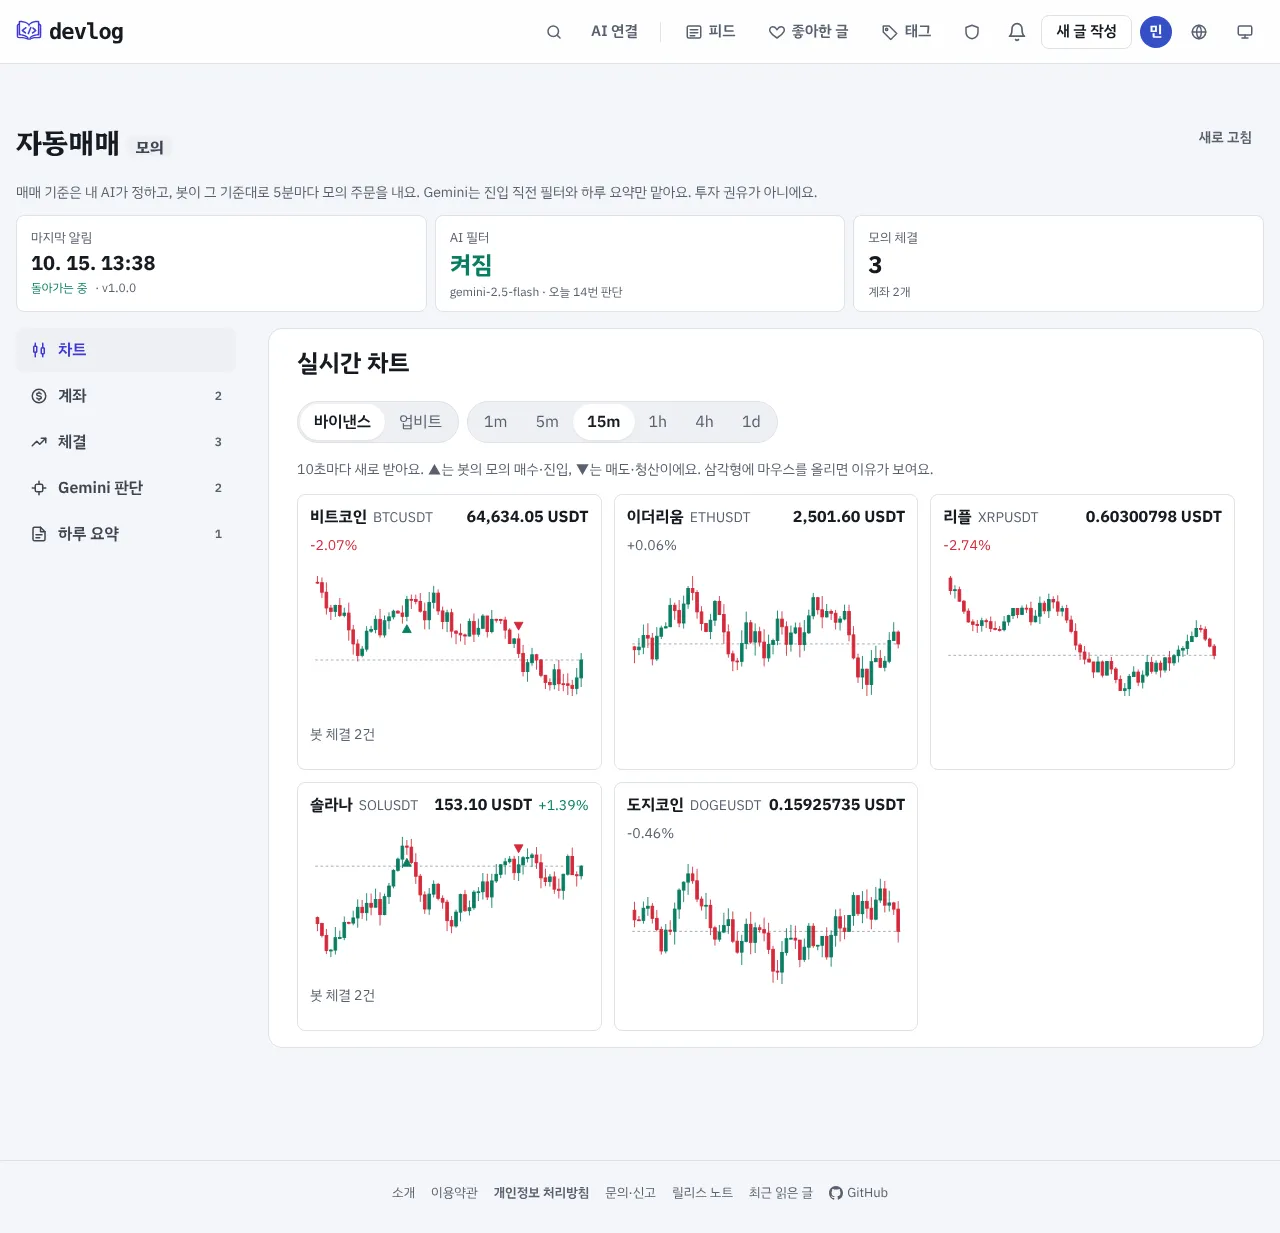
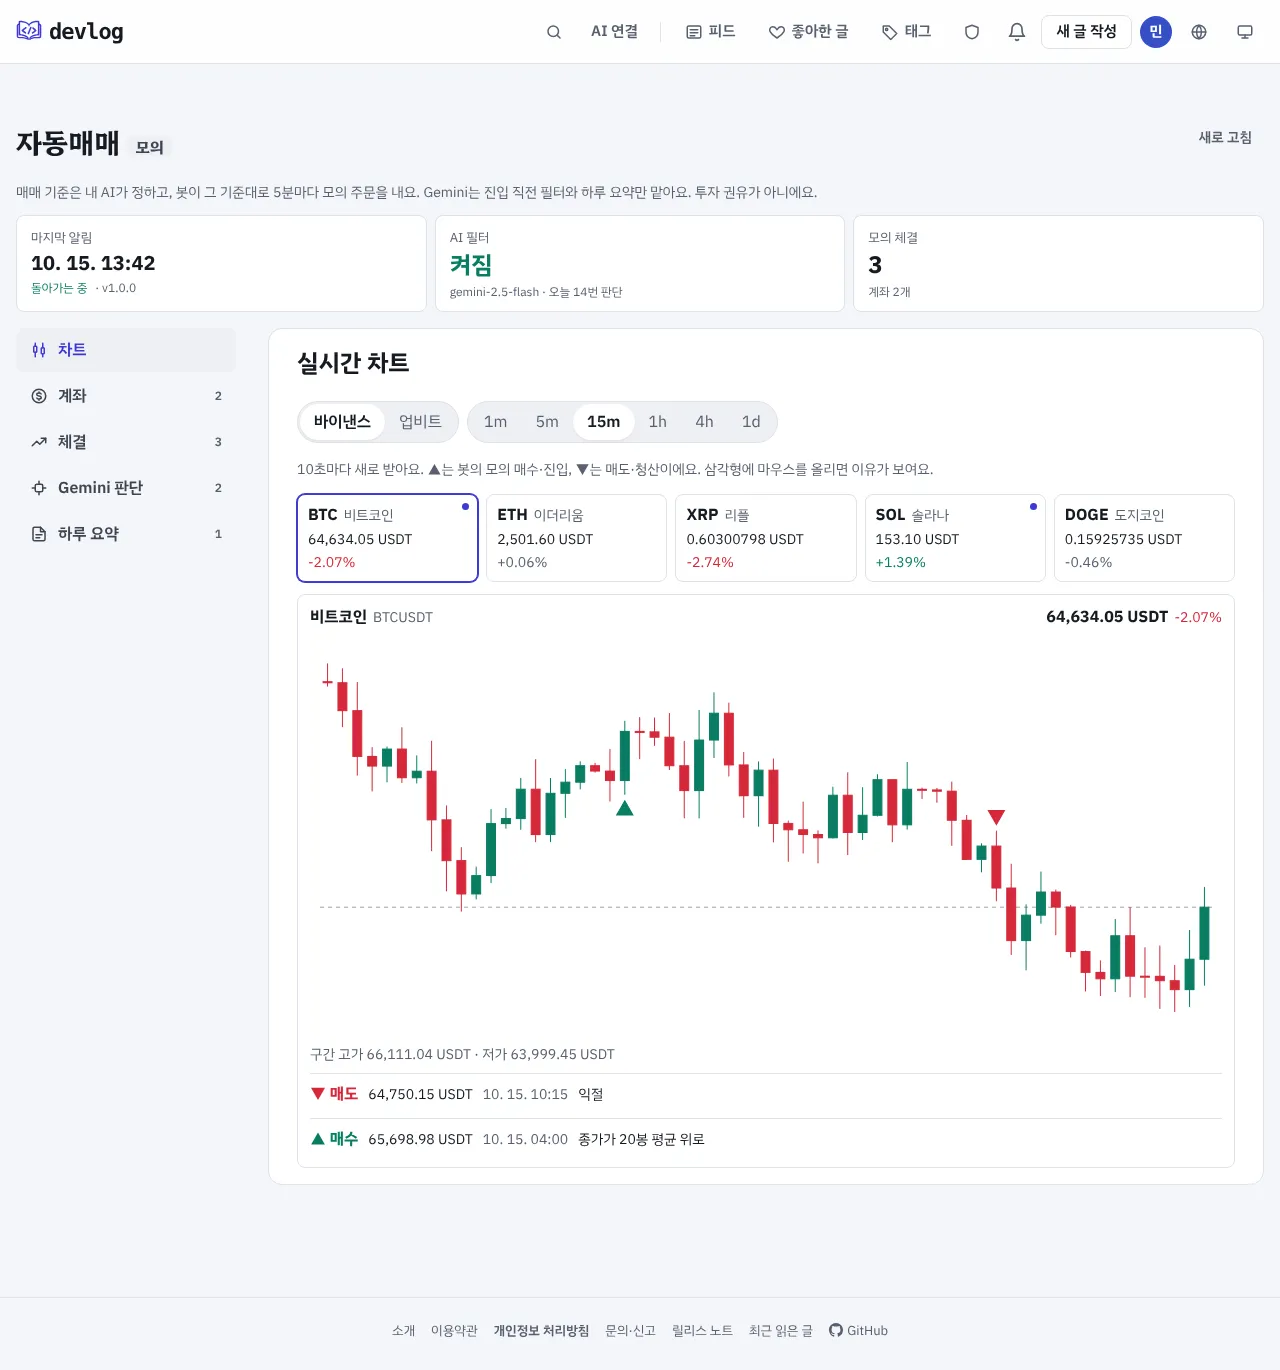
feat(trade): 차트 탭에서 종목을 골라 크게 보기 (PC 넓게, 휴대폰 화면 폭) + 봇 체결 목록 (민서님 요청)
Claude-Session: https://claude.ai/code/session_01EHjZN3D8Kby2KwiMkxejmq

diff --git a/app/frontend/src/components/TradeBotCharts.tsx b/app/frontend/src/components/TradeBotCharts.tsx
@@ -8,17 +8,35 @@ import { money, pnlClass } from '../lib/trades'
 
 /** 서버가 캔들을 10초씩 들고 있으니 화면도 10초마다 다시 받는다 */
 const REFRESH_MS = 10_000
-const W = 320
-const H = 170
-const PAD = 6
+/** 고른 종목 하나를 크게 그린다. PC에서는 넓게, 휴대폰에서는 화면 폭에 맞춰 같은 비율로 줄어든다 */
+const PC = { w: 900, h: 400 }
+/** 휴대폰은 폭이 좁아 같은 비율이면 납작해지므로 세로를 늘린 비율로 그린다(봉·삼각형 크기는 그대로) */
+const MOBILE = { w: 420, h: 300 }
+const PAD = 10
+
+/** 휴대폰 폭인가. 화면을 돌리거나 창 크기를 바꾸면 따라 바뀐다 */
+function useNarrow(): boolean {
+  const query = '(max-width: 767px)'
+  const [narrow, setNarrow] = useState(() => typeof window !== 'undefined' && !!window.matchMedia?.(query).matches)
+  useEffect(() => {
+    const m = window.matchMedia?.(query)
+    if (!m) return
+    const on = () => setNarrow(m.matches)
+    m.addEventListener('change', on)
+    return () => m.removeEventListener('change', on)
+  }, [])
+  return narrow
+}
 
 /**
- * 자동매매 화면의 차트 탭 (spec 101). 코인 5종을 고른 거래소의 실시간(10초마다) 캔들로 그리고,
- * 봇이 알린 모의 체결을 봉 위(매도·청산)·아래(매수·진입)에 삼각형으로 찍는다. 삼각형에 마우스를 올리면 체결 내용이 보인다.
+ * 자동매매 화면의 차트 탭 (spec 101). 코인 5종 가운데 고른 종목을 고른 거래소의 실시간(10초마다) 캔들로 크게 그리고,
+ * 봇이 알린 모의 체결을 봉 위(매도·청산)·아래(매수·진입)에 삼각형으로 찍는다. 삼각형에 마우스를 올리면 체결 내용이 보이고,
+ * 휴대폰처럼 마우스가 없을 때를 위해 차트 아래에 같은 체결을 목록으로 둔다.
  */
 export function TradeBotCharts() {
   const [exchange, setExchange] = useState<ChartExchange>('binance')
   const [interval, setTimeframe] = useState<ChartInterval>('15m')
+  const [picked, setPicked] = useState('BTC')
   const [data, setData] = useState<CoinChart | null>(null)
   const [error, setError] = useState(false)
   const key = useRef('')
@@ -58,9 +76,24 @@ export function TradeBotCharts() {
       {error && <p className="error small" role="alert">{t('차트를 불러오지 못했어요. 10초 뒤 다시 받아요.')}</p>}
       {!shown && !error && <p className="muted center">{t('불러오는 중…')}</p>}
       {shown && (
-        <div className="tradebot-charts">
-          {shown.coins.map((c) => <CoinCard key={c.coin} coin={c} currency={shown.currency} />)}
-        </div>
+        <>
+          <div className="tradebot-coins" role="tablist" aria-label={t('종목')}>
+            {shown.coins.map((c) => {
+              const last = c.candles.at(-1)
+              const rate = changeRate(c.candles)
+              return (
+                <button key={c.coin} type="button" role="tab" aria-selected={c.coin === picked} className={`tradebot-coin${c.coin === picked ? ' active' : ''}`}
+                  onClick={() => setPicked(c.coin)} data-tip={t('{0} 차트를 크게 봐요', { 0: t(c.name) })}>
+                  <span className="tradebot-coin-name"><strong>{c.coin}</strong><span className="muted small">{t(c.name)}</span></span>
+                  {last && <span className="tradebot-coin-price small">{money(last.c, shown.currency)}</span>}
+                  {rate !== null && <span className={`pnl small ${pnlClass(rate)}`}>{rate > 0 ? '+' : ''}{rate.toFixed(2)}%</span>}
+                  {c.marks.length > 0 && <span className="tradebot-coin-dot" aria-label={t('봇 체결 {0}건', { 0: c.marks.length })} />}
+                </button>
+              )
+            })}
+          </div>
+          {shown.coins.filter((c) => c.coin === picked).map((c) => <CoinCard key={c.coin} coin={c} currency={shown.currency} />)}
+        </>
       )}
     </section>
   )
@@ -78,20 +111,37 @@ function CoinCard({ coin, currency }: { coin: ChartCoin; currency: string }) {
         {rate !== null && <span className={`pnl small ${pnlClass(rate)}`}>{rate > 0 ? '+' : ''}{rate.toFixed(2)}%</span>}
       </header>
       {coin.error ? <p className="muted small">{t('시세를 받지 못했어요. 잠시 뒤 다시 받아요.')}</p> : <CandleSvg coin={coin} currency={currency} />}
-      {coin.marks.length > 0 && <p className="muted small">{t('봇 체결 {0}건', { 0: coin.marks.length })}</p>}
+      {coin.candles.length > 0 && (
+        <p className="muted small tradebot-range">
+          {t('구간 고가 {0} · 저가 {1}', { 0: money(Math.max(...coin.candles.map((x) => x.h)), currency), 1: money(Math.min(...coin.candles.map((x) => x.l)), currency) })}
+        </p>
+      )}
+      {coin.marks.length === 0 ? <p className="muted small">{t('이 구간에는 봇 체결이 없어요.')}</p> : (
+        <ul className="tradebot-marks">
+          {[...coin.marks].reverse().map((m, i) => (
+            <li key={i}>
+              <span className={sideUp(m.side) ? 'trades-buy' : 'trades-sell'}>{sideUp(m.side) ? '▲' : '▼'} <strong>{sideLabel(m.side)}</strong></span>
+              <span className="small">{money(m.price, currency)}</span>
+              <span className="muted small">{eventTime(new Date(m.t).toISOString())}</span>
+              {m.text && <span className="small tradebot-text">{m.text}</span>}
+            </li>
+          ))}
+        </ul>
+      )}
     </article>
   )
 }
 
 function CandleSvg({ coin, currency }: { coin: ChartCoin; currency: string }) {
+  const { w: W, h: H } = useNarrow() ? MOBILE : PC
   const cs = coin.candles
   if (cs.length === 0) return <p className="muted small">{t('아직 봉이 없어요.')}</p>
   const marks = coin.marks.map((m) => ({ m, i: markIndex(cs, m.t) })).filter((x): x is { m: typeof x.m; i: number } => x.i !== null)
   let lo = Math.min(...cs.map((c) => c.l), ...marks.map((x) => x.m.price))
   let hi = Math.max(...cs.map((c) => c.h), ...marks.map((x) => x.m.price))
   if (hi === lo) { hi += 1; lo -= 1 }
-  const top = PAD + 10
-  const bottom = H - PAD - 10
+  const top = PAD + 18
+  const bottom = H - PAD - 18
   const y = (v: number) => top + ((hi - v) / (hi - lo)) * (bottom - top)
   const step = (W - PAD * 2) / cs.length
   const x = (i: number) => PAD + step * i + step / 2
@@ -113,8 +163,8 @@ function CandleSvg({ coin, currency }: { coin: ChartCoin; currency: string }) {
       {marks.map(({ m, i }, k) => {
         const buy = sideUp(m.side)
         const cx = x(i)
-        const cy = buy ? Math.min(H - 2, y(cs[i].l) + 9) : Math.max(2, y(cs[i].h) - 9)
-        const d = buy ? `M${cx} ${cy - 5} L${cx - 5} ${cy + 4} L${cx + 5} ${cy + 4}Z` : `M${cx} ${cy + 5} L${cx - 5} ${cy - 4} L${cx + 5} ${cy - 4}Z`
+        const cy = buy ? Math.min(H - 2, y(cs[i].l) + 14) : Math.max(2, y(cs[i].h) - 14)
+        const d = buy ? `M${cx} ${cy - 8} L${cx - 8} ${cy + 6} L${cx + 8} ${cy + 6}Z` : `M${cx} ${cy + 8} L${cx - 8} ${cy - 6} L${cx + 8} ${cy - 6}Z`
         return (
           <path key={k} d={d} className={`tradebot-mark ${buy ? 'up' : 'down'}`}>
             <title>{`${eventTime(new Date(m.t).toISOString())} ${sideLabel(m.side)} @ ${money(m.price, currency)}${m.text ? ` · ${m.text}` : ''}`}</title>

diff --git a/app/frontend/src/styles.css b/app/frontend/src/styles.css
@@ -2539,14 +2539,31 @@ html:is(:lang(ja), :lang(zh)) :is(.post-title, .markdown, .markdown *, .card-tit
 .tradebot-rules dl { margin: 6px 0 0; display: grid; grid-template-columns: repeat(auto-fill, minmax(110px, 1fr)); gap: 6px; }
 .tradebot-rules dd { margin: 0; overflow-wrap: anywhere; }
 .tradebot-chart-toolbar { flex-wrap: wrap; gap: 8px; }
-.tradebot-charts { display: grid; grid-template-columns: repeat(auto-fill, minmax(280px, 1fr)); gap: 12px; margin-top: 8px; }
+.tradebot-coins { display: grid; grid-template-columns: repeat(5, minmax(0, 1fr)); gap: 8px; margin: 8px 0 12px; }
+.tradebot-coin { position: relative; display: flex; flex-direction: column; align-items: flex-start; gap: 2px; padding: 8px 10px; min-height: 40px;
+  border: 1px solid var(--color-border); border-radius: var(--radius); background: var(--color-surface); color: inherit; text-align: left; cursor: pointer; font: inherit; }
+.tradebot-coin:hover { background: var(--color-hover); }
+.tradebot-coin.active { border-color: var(--color-brand); box-shadow: 0 0 0 1px var(--color-brand); }
+.tradebot-coin-name { display: flex; align-items: baseline; gap: 6px; }
+.tradebot-coin-price { font-variant-numeric: tabular-nums; overflow-wrap: anywhere; }
+.tradebot-coin-dot { position: absolute; top: 8px; right: 8px; width: 7px; height: 7px; border-radius: 50%; background: var(--color-brand); }
+.tradebot-range { margin: 4px 0 8px; }
+.tradebot-marks { list-style: none; margin: 0; padding: 0; display: flex; flex-direction: column; gap: 6px; }
+.tradebot-marks li { display: flex; flex-wrap: wrap; align-items: baseline; gap: 2px 10px; padding: 6px 0; border-top: 1px solid var(--color-border); }
+@media (max-width: 767px) {
+  .tradebot-coins { display: flex; overflow-x: auto; scrollbar-width: none; margin: 8px -16px 12px; padding: 0 16px; }
+  .tradebot-coins::-webkit-scrollbar { display: none; }
+  .tradebot-coin { flex: 0 0 auto; min-width: 116px; }
+  .tradebot-tabs .settings-panel .tradebot-chart { margin: 0 -8px; padding: 8px; }
+}
 .tradebot-chart { padding: 10px 12px; border: 1px solid var(--color-border); border-radius: var(--radius); min-width: 0; }
 .tradebot-chart-price { margin-left: auto; font-weight: 700; font-variant-numeric: tabular-nums; }
 .tradebot-candles { display: block; width: 100%; height: auto; margin-top: 6px; }
 .tradebot-candles .up { stroke: var(--color-up); fill: var(--color-up); }
 .tradebot-candles .down { stroke: var(--color-down); fill: var(--color-down); }
 .tradebot-candles line { stroke-width: 1; }
-.tradebot-candles .tradebot-last { stroke: var(--color-text-muted); stroke-dasharray: 3 3; opacity: 0.6; }
+.tradebot-candles .tradebot-last { stroke: var(--color-text-muted); stroke-dasharray: 4 4; opacity: 0.6; }
+.tradebot-candles line { vector-effect: non-scaling-stroke; }
 .tradebot-mark { stroke: var(--color-surface); stroke-width: 1; cursor: help; }
 .tradebot-text { margin: 4px 0 0; overflow-wrap: anywhere; white-space: pre-line; }
 .tradebot-allow { color: var(--color-up); border-color: var(--color-up); }

diff --git a/app/frontend/src/lib/locales/ja.ts b/app/frontend/src/lib/locales/ja.ts
@@ -2022,4 +2022,8 @@ export const ja: Record<string, string> = {
   "리플": "リップル",
   "솔라나": "ソラナ",
   "도지코인": "ドージコイン",
+  "{0} 차트를 크게 봐요": "{0} のチャートを大きく見ます",
+  "구간 고가 {0} · 저가 {1}": "区間高値 {0} · 安値 {1}",
+  "이 구간에는 봇 체결이 없어요.": "この区間にはボットの約定がありません。",
+  "종목": "銘柄",
 }

diff --git a/app/frontend/src/lib/locales/zh.ts b/app/frontend/src/lib/locales/zh.ts
@@ -2022,4 +2022,8 @@ export const zh: Record<string, string> = {
   "리플": "瑞波币",
   "솔라나": "Solana",
   "도지코인": "狗狗币",
+  "{0} 차트를 크게 봐요": "放大查看 {0} 图表",
+  "구간 고가 {0} · 저가 {1}": "区间最高 {0} · 最低 {1}",
+  "이 구간에는 봇 체결이 없어요.": "此区间没有机器人成交。",
+  "종목": "币种",
 }

diff --git a/app/frontend/src/lib/locales/en.ts b/app/frontend/src/lib/locales/en.ts
@@ -2022,4 +2022,8 @@ export const en: Record<string, string> = {
   "리플": "XRP",
   "솔라나": "Solana",
   "도지코인": "Dogecoin",
+  "{0} 차트를 크게 봐요": "View the {0} chart large",
+  "구간 고가 {0} · 저가 {1}": "Range high {0} · low {1}",
+  "이 구간에는 봇 체결이 없어요.": "No bot fills in this range.",
+  "종목": "Coins",
 }

diff --git a/CHANGELOG.md b/CHANGELOG.md
@@ -11,7 +11,7 @@ main에 이 파일의 맨 위 버전이 새로 들어오면 `.github/workflows/r
 ## [Unreleased]
 
 ### 추가
-- 자동매매 모의 화면 `/trade`: 매매 봇이 MCP `report_trade_bot`으로 알린 모의 계좌(현금·보유 포지션·평가 손익·적용 중인 규칙), 최근 체결과 이유, Gemini 진입 판단(허락·막음), 하루 요약을 본인만 본다. 첫 탭은 코인 5종(BTC·ETH·XRP·SOL·DOGE)의 바이낸스 현물·업비트 원화 실시간 차트(1m~1d, 10초마다)이고 봇의 모의 체결을 ▲▼로 찍는다(캔들은 서버가 공개 API에서 받아 10초씩 들고 있어 CSP를 넓히지 않는다, `GET /api/me/trade-bot/charts`). 차트·계좌·체결·Gemini 판단·하루 요약을 왼쪽 탭으로 나누고 휴대폰에서는 탭이 위에서 옆으로 밀린다(`/trade#fills`처럼 바로 열림). 구조는 규칙형(내 AI가 기준, 봇 코드가 5분마다 주문, Gemini는 필터·요약). 매매 일지와 섞지 않는 전용 표에 두고 실계좌는 받지 않으며 30일 지나면 지운다. 화면에 주문 버튼은 없다. 내 메뉴 [자동매매 (모의)]. DB에 `trade_bot_status`·`trade_bot_account`·`trade_bot_event`가 생긴다(V48). 사진: `assets/releases/unreleased/trade-bot-*.webp` (spec 101)
+- 자동매매 모의 화면 `/trade`: 매매 봇이 MCP `report_trade_bot`으로 알린 모의 계좌(현금·보유 포지션·평가 손익·적용 중인 규칙), 최근 체결과 이유, Gemini 진입 판단(허락·막음), 하루 요약을 본인만 본다. 첫 탭은 코인 5종(BTC·ETH·XRP·SOL·DOGE)의 바이낸스 현물·업비트 원화 실시간 차트(1m~1d, 10초마다)다. 종목을 골라 한 차트로 크게 보고(PC는 넓게, 휴대폰은 화면 폭에 맞춘 세로 비율), 봇의 모의 체결을 ▲▼로 찍고 차트 아래에 목록으로도 보인다(캔들은 서버가 공개 API에서 받아 10초씩 들고 있어 CSP를 넓히지 않는다, `GET /api/me/trade-bot/charts`). 차트·계좌·체결·Gemini 판단·하루 요약을 왼쪽 탭으로 나누고 휴대폰에서는 탭이 위에서 옆으로 밀린다(`/trade#fills`처럼 바로 열림). 구조는 규칙형(내 AI가 기준, 봇 코드가 5분마다 주문, Gemini는 필터·요약). 매매 일지와 섞지 않는 전용 표에 두고 실계좌는 받지 않으며 30일 지나면 지운다. 화면에 주문 버튼은 없다. 내 메뉴 [자동매매 (모의)]. DB에 `trade_bot_status`·`trade_bot_account`·`trade_bot_event`가 생긴다(V48). 사진: `assets/releases/unreleased/trade-bot-*.webp` (spec 101)
 - 매매 일지가 코인 거래소 체결을 받는다. `record_trade`에 거래소(`exchange`)와 통화(`currency`)를 적고, 0.00012345 BTC 같은 소수 수량·가격을 그대로 남긴다. 원화와 USDT는 더하지 않고 손익·수수료를 통화별로 따로 보여 준다. DB `trade`에 `exchange`·`currency` 열이 생기고 금액 자릿수가 넓어진다(V40). (#254)
 - 매매 재현 숏폼: 스튜디오의 [매매 재현 영상]에서 매매 일지의 체결(같은 거래소·종목, 1~6개, 메모를 남긴 날)을 고르면 대본이 생긴다. 렌더 워커가 바이낸스·업비트 공개 캔들(API 키 없음)을 가능한 한 1분봉으로 받아, 짧은 검은 연기 제목 카드 뒤로, 거래소 화면을 녹화해 빨리감기한 것처럼 지금 가격을 화면 가운데에 두고 카메라가 부드럽게 따라가는 차트가 끊김 없이 흐르며 체결 시각에 매수·매도가 찍히는 9:16 영상을 만든다. 체결 순간에만 아래 가운데 작은 자막(진입 흰색, 익절 초록·손절 빨강, 둘째 줄 손익 | 누적)과 체결 알림이 뜨고, 끝은 화면을 어둡게 눌러 결산을 띄운다. 배경음은 136bpm 다크 트랩(워커 합성)으로 제목 카드 뒤에 들어와 결산에서 작아진다. 차트는 Remotion 맞춤 장면(`remotion/src/Replay.tsx`)으로 그려 신경망 목소리·배경음·장면 전환이 다른 쇼츠와 같다. 봉은 자동 또는 1분~1일. 대본은 내 AI가 MCP `get_shorts`로 체결·메모를 읽고 `update_shorts_script`로 "지금 사는 이유" 식으로 다시 쓴다. 체결·익절·손절 효과음은 음악 밑에 작게, 워커가 직접 합성한다(음원 파일 없음). 투자 권유 고지는 대본에 넣지 않고 영상 맨 끝에 1.3초 카드 한 장으로 붙인다. 양산형 검사·하루 한도·직접 올리기 안내는 다른 쇼츠와 같다. DB `shorts`에 `replay` 열이 생긴다(V47). (#265)
 - 블로그 포인트 1단계: 포인트 원장(지갑 두 개: 투자 전용·상점), 가입 첫 지급 10,000,000P(모의투자 전용), 출석 보상(100 × 연속 출석 일수², 365일에 하루 13,322,500크레딧으로 멈춤)과 출석 알림(오늘 출석 전이면 화면 위에 한 줄), 연속 출석 휘장(20일 동·50일 은·100일 금·150일 비취·200일 청옥·300일 자수정 메달과 365일 햇살 별 특별 휘장, 블로그 이름 옆에 보임), 활동으로 번 포인트를 "크레딧"으로 표시, 처음 전체 공개한 글 적립(하루 3편·300자 이상), 모의투자 수익 적립 규칙, 내 포인트 화면(`/points`, 내 설정처럼 왼쪽 탭: 출석·휘장·크레딧 얻는 법·내역), 관리자 포인트 규칙 화면(`/admin/points`). `POINTS_ENABLED`로 켠다(기본 꺼짐). DB에 `point_ledger`·`point_attendance`·`point_rule`·`point_badge`가 생긴다(V43). ([#266](https://github.com/AIGJ-01-002-blog/devlog/issues/266), 목표 [#253](https://github.com/AIGJ-01-002-blog/devlog/issues/253))

diff --git a/specs/101-trade-bot-page/spec.md b/specs/101-trade-bot-page/spec.md
@@ -28,7 +28,7 @@
 - **FR-001**: V48에 `trade_bot_status`(AI 필터 켜짐·모델·오늘 호출 수·봇 버전·마지막 알림), `trade_bot_account`(계좌·거래소·시장·통화·현금·평가 손익·positions·rules JSON), `trade_bot_event`(FILL·AI·SUMMARY, 회원+사건 번호 고유, 번호는 빈칸 없는 120자까지: 봇은 fill:paper-…, ai:계좌:심볼:봉시각, sum:날짜 꼴로 보낸다)를 둔다. 탈퇴 정리 때 지운다.
 - **FR-002**: MCP 도구 `report_trade_bot`(쓰기 토큰, `TRADES_ENABLED`일 때만 보임). `accounts`를 주면 그 목록으로 계좌를 통째로 바꾸고, 빼면 그대로 둔다. `events`는 한 번에 200건까지.
 - **FR-003**: `GET /api/me/trade-bot`은 로그인한 본인 것만 돌려준다. 체결 50건·판단 30건·요약 7건(최근 30일). `TRADES_ENABLED`가 꺼져 있으면 404.
-- **FR-005 (차트)**: 첫 탭은 코인 5종의 실시간 차트다(블로그 주인 요청 "5개의 코인에 대한 각 거래소의 실시간 차트가 보이고 자동매매 흔적이 표기"). 거래소(바이낸스 현물 USDT·업비트 원화)와 봉(1m·5m·15m·1h·4h·1d)을 고르고, 봉 60개를 그린 위에 봇의 모의 체결(FILL)을 매수·진입 ▲, 매도·청산 ▼로 찍는다(마우스를 올리면 시각·가격·이유). `GET /api/me/trade-bot/charts?exchange=&interval=`이 서버에서 공개 캔들을 받아 (거래소, 봉)마다 10초씩 들고 있고, 화면은 10초마다 다시 받는다. 브라우저가 거래소를 바로 부르면 사이트 CSP(connect-src 'self')를 넓혀야 해서 서버가 받는다. 한 코인이 실패해도 나머지는 그린다.
+- **FR-005 (차트)**: 첫 탭은 코인 5종의 실시간 차트다(블로그 주인 요청 "5개의 코인에 대한 각 거래소의 실시간 차트가 보이고 자동매매 흔적이 표기"). 거래소(바이낸스 현물 USDT·업비트 원화)와 봉(1m·5m·15m·1h·4h·1d), 종목을 고르면 그 종목 하나를 크게 그린다(블로그 주인 요청 "종목도 선택하게 해서 PC에선 크게 모바일에선 크기 그대로": PC 900×400, 휴대폰 420×300 비율). 종목 칸에는 지금가·등락률과 봇 체결이 있는지 점이 보인다. 봉 60개를 그린 위에 봇의 모의 체결(FILL)을 매수·진입 ▲, 매도·청산 ▼로 찍는다(마우스를 올리면 시각·가격·이유). 마우스가 없는 휴대폰을 위해 같은 체결을 차트 아래 목록으로도 둔다. `GET /api/me/trade-bot/charts?exchange=&interval=`이 서버에서 공개 캔들을 받아 (거래소, 봉)마다 10초씩 들고 있고, 화면은 10초마다 다시 받는다. 브라우저가 거래소를 바로 부르면 사이트 CSP(connect-src 'self')를 넓혀야 해서 서버가 받는다. 한 코인이 실패해도 나머지는 그린다.
 - **FR-004**: 화면 `/trade`는 1분마다 다시 받는다. 계좌·체결·Gemini 판단·하루 요약을 내 포인트처럼 왼쪽 탭으로 나눈다(블로그 주인 요청 "한 페이지에 많으면 모바일로 보기 힘드니 옆에 탭을 나눠서"). 휴대폰에서는 탭이 위에서 옆으로 밀리고, `/trade#ai`처럼 바로 열린다. 주문·설정을 바꾸는 버튼은 없다.
 
 ## 봇이 보낼 모양 (trade-bot 저장소 작업)
